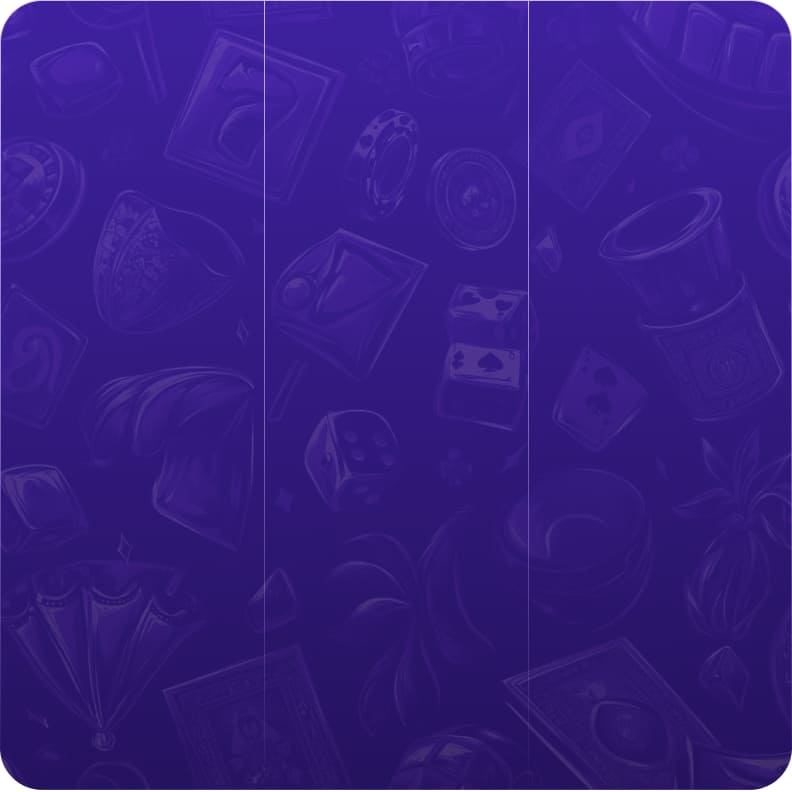
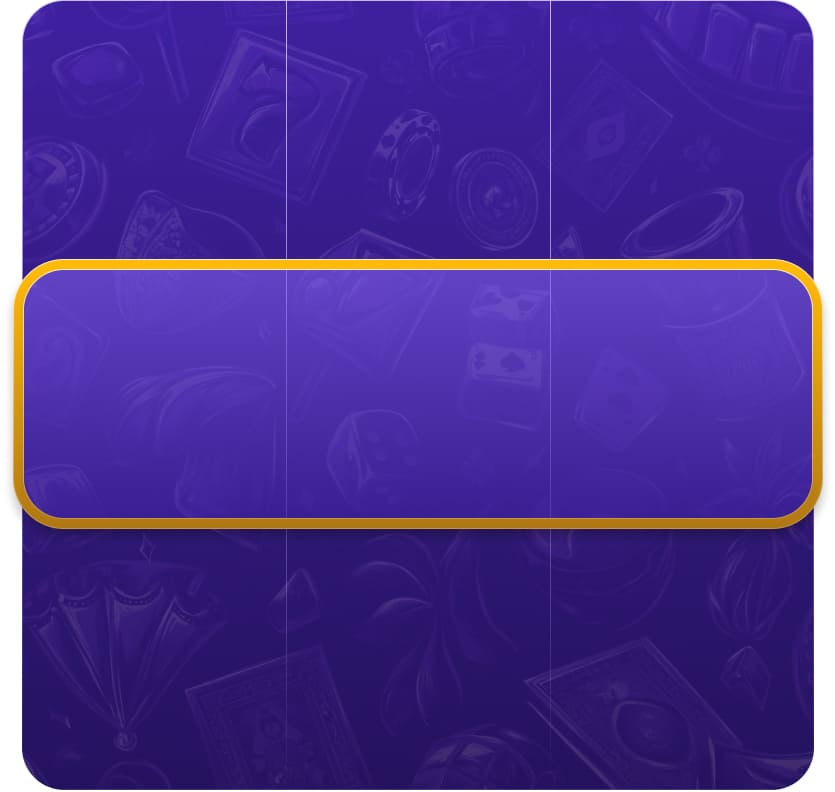
fix bg

diff --git a/styles/pages/game-screen/gameScreen.module.scss b/styles/pages/game-screen/gameScreen.module.scss
@@ -342,12 +342,13 @@
 
             padding: 32.65px 22.12px;
 
-            width: 396px;
-            height: 396px;
+            width: 406px;
+            height: 406px;
 
-            background-image: url("/static/jpg/bg__small.jpg");
+            background-image: url("/static/png/game-screen/bg__small.png");
             background-repeat: no-repeat;
             background-size: cover;
+            background-position: center;
             border-radius: 21.06px;
 
             overflow: hidden;
